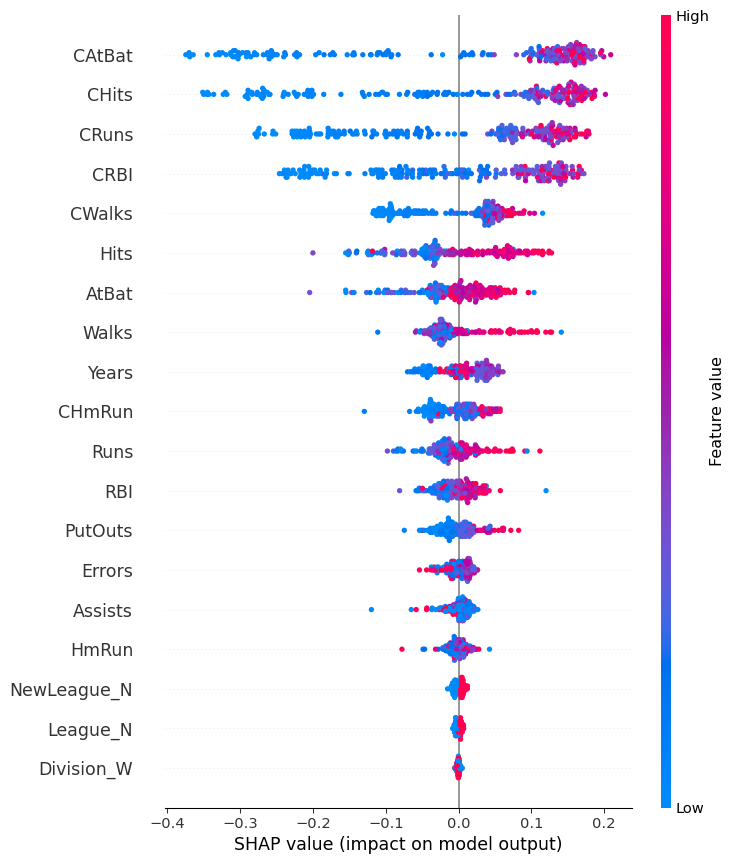
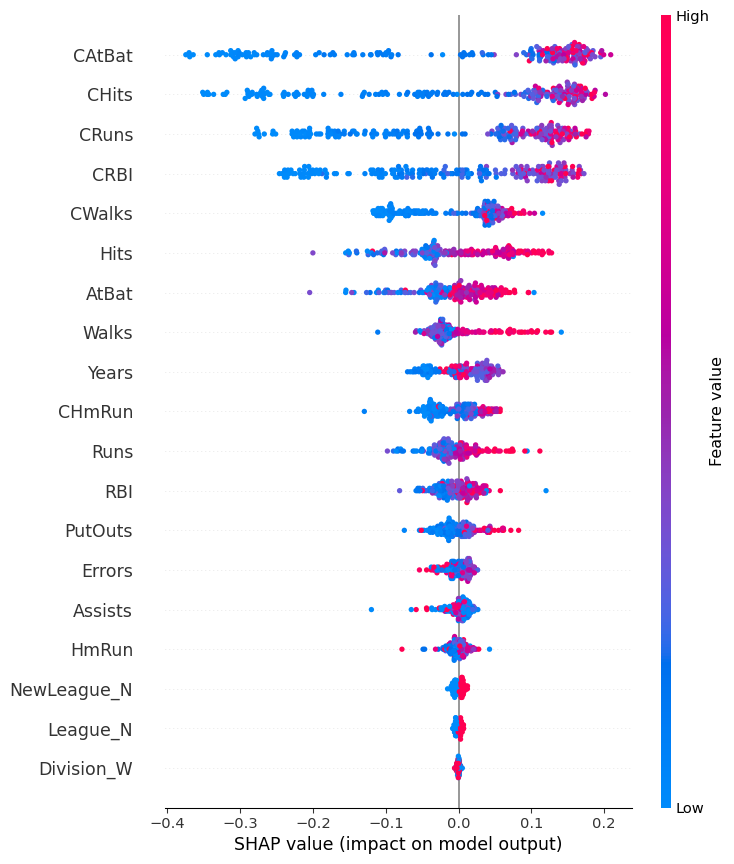
Built site for gh-pages

diff --git a/posts/2026-10-09-Post-Your-Github-In-Slack-for-Project.html b/posts/2026-10-09-Post-Your-Github-In-Slack-for-Project.html
@@ -10,7 +10,7 @@
 <meta name="dcterms.date" content="2026-10-09">
 <meta name="description" content="Click here for some information on the project">
 
-<title>quarto-input379bab74a8f39068 – DATA 622 Fall 2026</title>
+<title>quarto-input9f98e4f440888d81 – DATA 622 Fall 2026</title>
 <style>
 code{white-space: pre-wrap;}
 span.smallcaps{font-variant: small-caps;}

diff --git a/course/schedule.html b/course/schedule.html
@@ -416,7 +416,7 @@ ul.task-list li input[type="checkbox"] {
 <td>Oct 19</td>
 <td><a href="../modules/module8.html">Tree Models</a></td>
 <td><a href="../meetups/meetup-8/meetup-8.html">Meetup 8 Slides</a></td>
-<td></td>
+<td><a href="https://youtu.be/m_fHVZyMum0">Meetup 8 Video</a></td>
 <td></td>
 </tr>
 <tr class="odd">

diff --git a/meetups/meetup-8/meetup-8.html b/meetups/meetup-8/meetup-8.html
@@ -477,7 +477,7 @@ George I. Hagstrom
 <p><img data-src="tree-2d-regions.png"></p>
 </div></div>
 </section>
-<section id="greedy-splits" class="slide level2">
+<section id="greedy-splits" class="slide level2 smaller">
 <h2>Greedy Splits</h2>
 <ul>
 <li>At each step: Consider all splits, and all predictors.</li>
